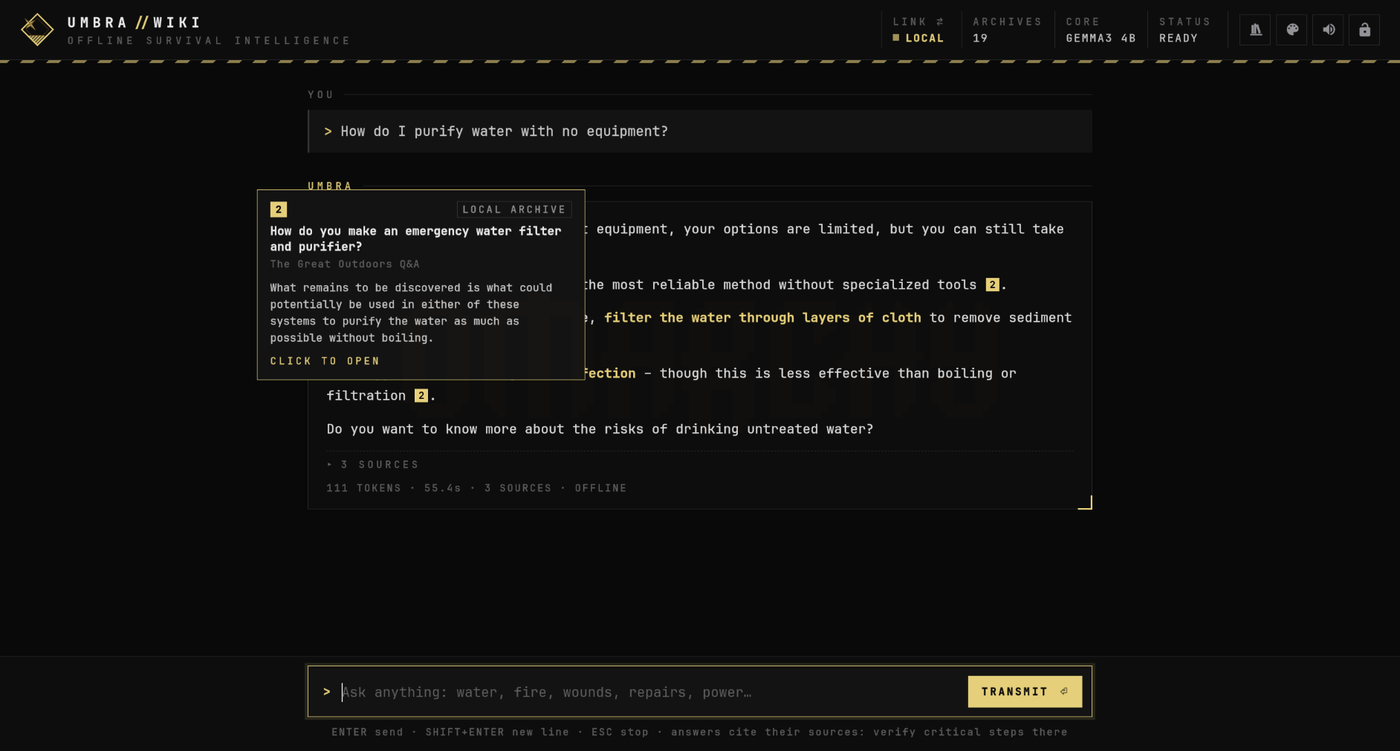
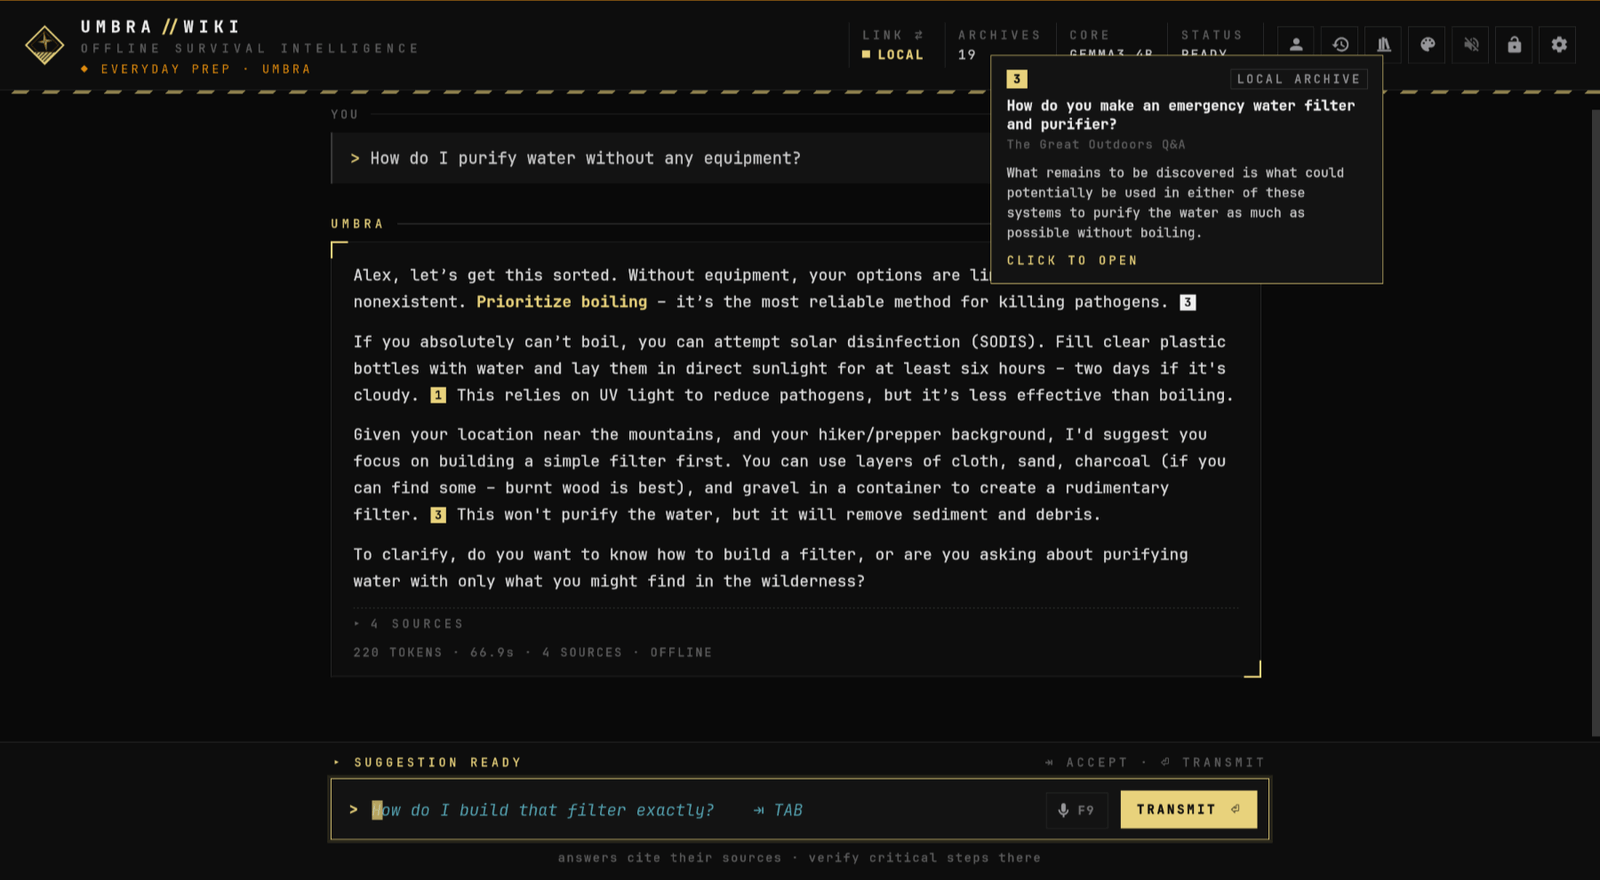
Screenshots for 3.0.0; fixes found while taking them
- 17 new screenshots in docs/ (start screen, answer with a citation
  popup, Umbra at work, field manual, library, loadout, profile, lock,
  history, settings, shortcuts, 6 themes, 6 backgrounds, boot and goodbye,
  welcome tour, bar widget) and a new preview.png, made with a demo
  profile; the old screenshots are removed.
- A question asked right at launch now gets its field notes (they could
  arrive after the question started).
- An empty XDG_CONFIG_HOME / XDG_DATA_HOME counts as unset, as the XDG
  spec says, instead of giving relative folders.
- umbra-wiki --manual <page> opens a field-manual page.

diff --git a/umbra-wiki/ui/app.js b/umbra-wiki/ui/app.js
@@ -45,7 +45,7 @@ const QUIPS = {
 };
 let quipTimer = 0, noteTimer = 0, stopArt = null;
 let facts = [];
-fetch("/api/facts").then((r) => r.json()).then((f) => { facts = f; }).catch(() => {});
+const factsReady = fetch("/api/facts").then((r) => r.json()).then((f) => { facts = f; }).catch(() => {});
 
 function startQuips(answerEl, phase) {
   clearInterval(quipTimer);
@@ -69,7 +69,8 @@ function startQuips(answerEl, phase) {
 // A field note under the waiting line, changing every few seconds.
 function startNotes(answerEl) {
   clearInterval(noteTimer);
-  if (!facts.length) return;
+  // A question asked right at launch can arrive before the notes have loaded.
+  if (!facts.length) { factsReady.then(() => { if (facts.length && answerEl.isConnected) startNotes(answerEl); }); return; }
   let i = Math.floor(Math.random() * facts.length);
   const show = () => {
     const n = answerEl.querySelector(".wnote .ntext");
@@ -2176,7 +2177,12 @@ document.addEventListener("selectionchange", () => { if (document.activeElement 
 addEventListener("resize", placeCaret);
 setTimeout(placeCaret, 300);
 
+// umbra-wiki --manual <page> opens a field-manual page.
+const manualParam = new URLSearchParams(location.search).get("manual");
+if (manualParam) setTimeout(() => openManual(manualParam), 700);
+
 // umbra-wiki "question" passes it as ?q= to ask on open.
 const initial = new URLSearchParams(location.search).get("q");
 if (initial) ask(initial);
+
 

diff --git a/umbra-wiki/ui/onboarding.js b/umbra-wiki/ui/onboarding.js
@@ -75,7 +75,7 @@
       skipHooks.push(() => reject(SKIP));
       wake();
       setTimeout(() => inp.focus(), 50);
-      if (AUTO) { inp.value = multiline || secret ? "" : "Tester"; autoClick(box.querySelector(secret ? ".ghost" : ".solid")); }
+      if (AUTO) { inp.value = multiline || secret ? "" : "Alex"; autoClick(box.querySelector(secret ? ".ghost" : ".solid")); }
     });
   }
 

diff --git a/umbra-wiki/server.py b/umbra-wiki/server.py
@@ -29,8 +29,8 @@ from http.server import BaseHTTPRequestHandler, ThreadingHTTPServer
 HOME = os.path.expanduser("~")
 APP_DIR = os.path.dirname(os.path.abspath(__file__))
 UI_DIR = os.path.join(APP_DIR, "ui")
-CONFIG_DIR = os.path.join(os.environ.get("XDG_CONFIG_HOME", os.path.join(HOME, ".config")), "umbra-wiki")
-DATA_DIR = os.path.join(os.environ.get("XDG_DATA_HOME", os.path.join(HOME, ".local", "share")), "umbra-wiki")
+CONFIG_DIR = os.path.join((os.environ.get("XDG_CONFIG_HOME") or os.path.join(HOME, ".config")), "umbra-wiki")
+DATA_DIR = os.path.join((os.environ.get("XDG_DATA_HOME") or os.path.join(HOME, ".local", "share")), "umbra-wiki")
 CONFIG_FILE = os.path.join(CONFIG_DIR, "config.json")      # model, libraryDir (set by setup)
 SETTINGS_FILE = os.path.join(CONFIG_DIR, "settings.json")  # theme, muted (changed from the UI)
 CUSTOM_THEMES_FILE = os.path.join(CONFIG_DIR, "themes.json")  # themes made in the editor

diff --git a/README.md b/README.md
@@ -85,8 +85,6 @@ Umbra is fully offline by default. When you have internet, switch **LINK** to
 you which facts came from where. It always asks first, and every launch starts
 local.
 
-![Online mode](docs/online.png)
-
 ### Loadout: scenarios and personalities
 
 A **scenario** tells Umbra the situation you're in: Everyday Prep, Wilderness,
@@ -107,6 +105,7 @@ suggests questions that fit you. An optional password keeps the screen
 private.
 
 ![Profile](docs/profile.png)
+![The password lock](docs/lock.png)
 
 ### History, export and backup
 
@@ -269,6 +268,8 @@ Umbra Wiki speaks and understands English.
 | Ctrl+M | mute |
 | Ctrl+, | settings |
 | F1 | all shortcuts |
+
+![Keyboard shortcuts](docs/shortcuts.png)
 
 ---
 
